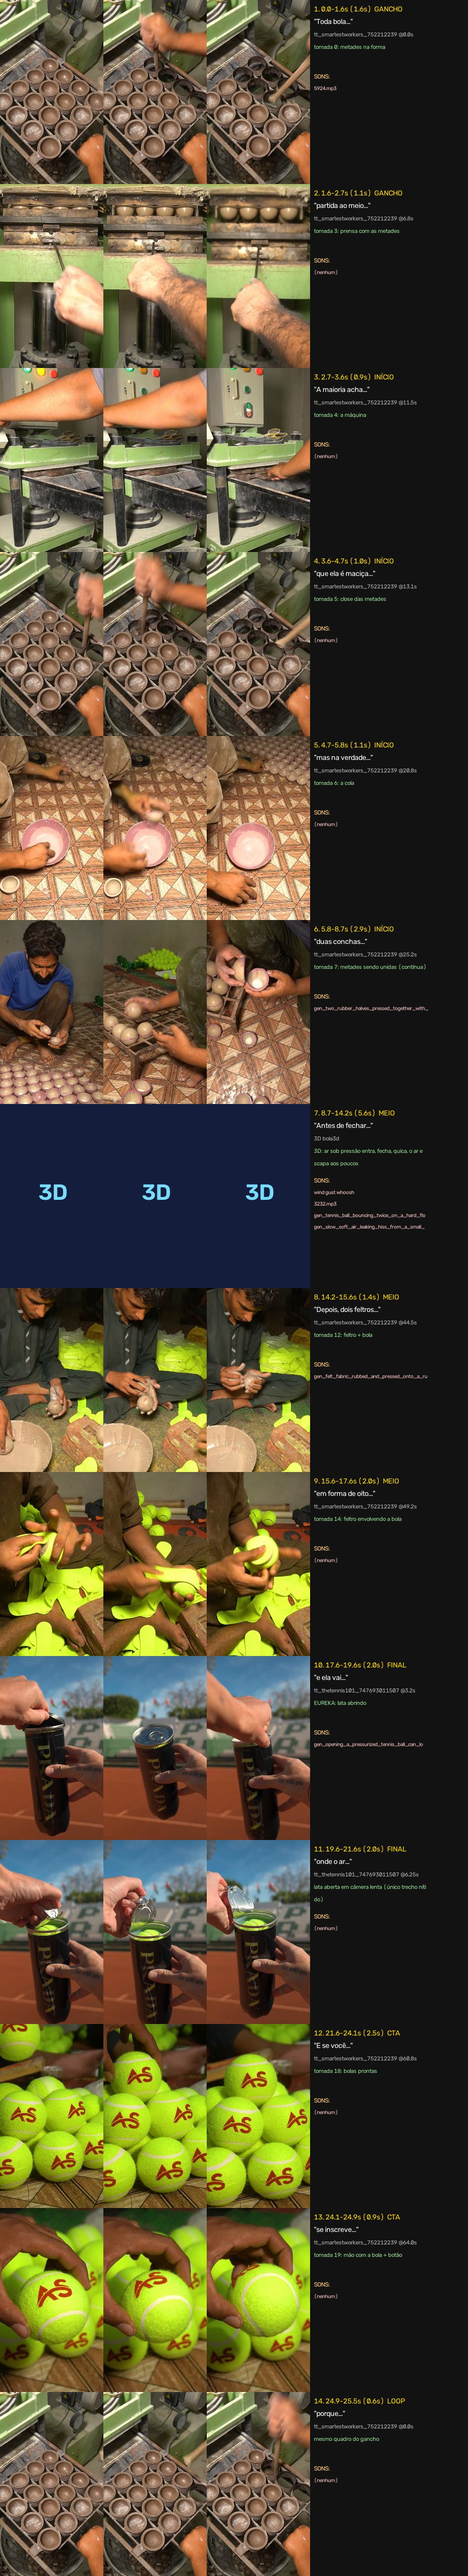
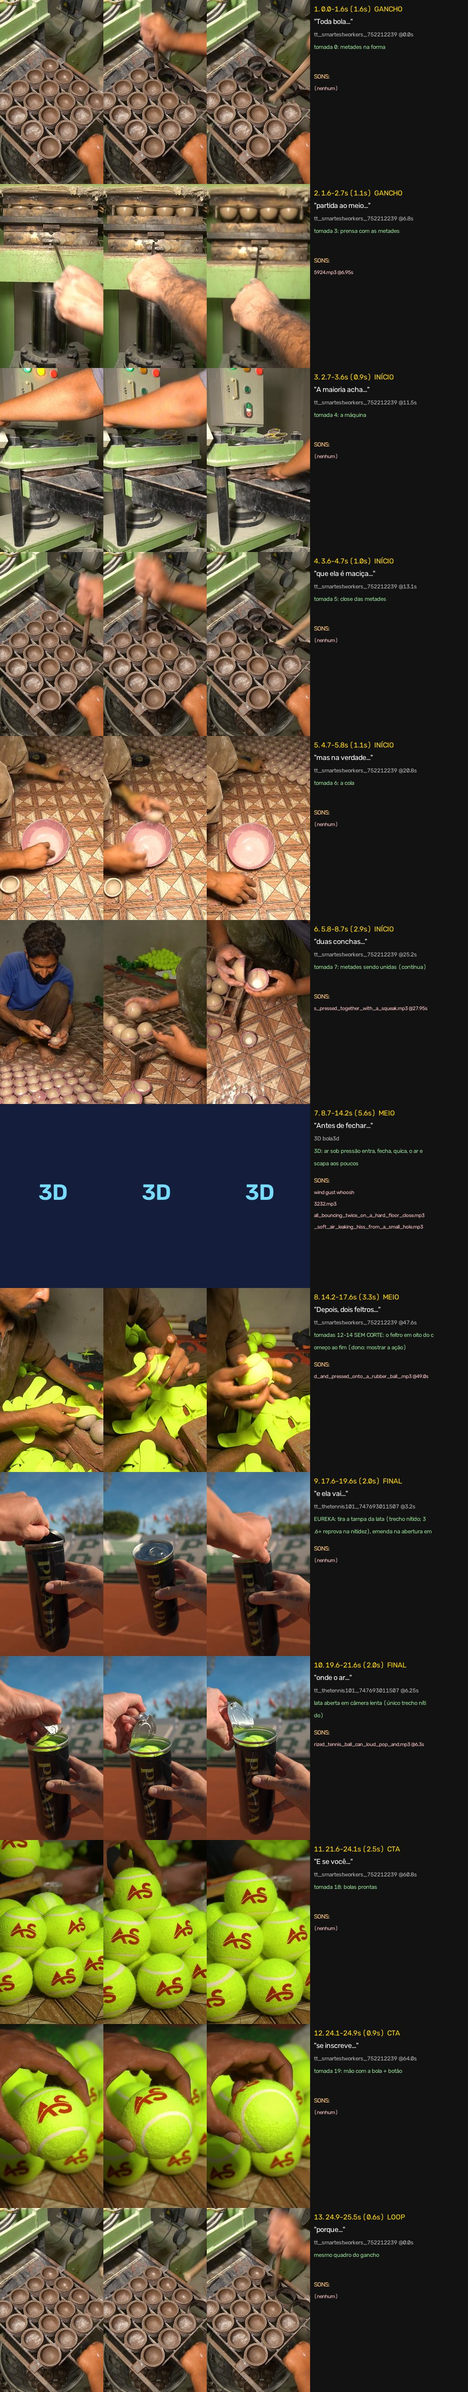
Som no instante da ação da imagem (no_clipe) + ação inteira na cena; vd011 corrigido
Claude-Session: https://claude.ai/code/session_01Pz7vxCjdPfCnR3b978TXUQ

diff --git a/viitu/editar.py b/viitu/editar.py
@@ -707,6 +707,16 @@ def _hits(cfg: dict, palavras: list[dict], impactos: list[int], pub: Path) -> li
             for i in alvos]
 
 
+def _ataque(arq: Path) -> float:
+    """Segundo em que o som "acontece" no arquivo: 1º ponto a 30% do pico (−10 dB), menos 30 ms de respiro."""
+    bruto = subprocess.run(["ffmpeg", "-v", "error", "-i", str(arq), "-t", "3", "-ac", "1", "-ar", "8000", "-f", "s16le", "-"],
+                           capture_output=True, check=True).stdout
+    x = np.abs(np.frombuffer(bruto, np.int16).astype(np.float32))
+    if not len(x) or x.max() == 0:
+        return 0.0
+    return max(int(np.argmax(x >= 0.3 * x.max())) / 8000 - 0.03, 0.0)
+
+
 def _sons_da_cena(segs: list[dict], palavras: list[dict], pub: Path) -> list[dict]:
     """Foley de AÇÃO em cena de clipe real (não é som de função): toca NA palavra, não na pausa.
     "sfx_cena": [{"em": "pegou", "arquivo": "assets/sfx/x.mp3" | "busca": "<som em inglês>", "db": -4, "dur": 2, "desloc": 0}]"""
@@ -727,12 +737,22 @@ def _sons_da_cena(segs: list[dict], palavras: list[dict], pub: Path) -> list[dic
                     print(f"  ⚠ som de cena não achado: {e['busca']}")
                     continue
                 e = {**e, "arquivo": str(Path(arq).relative_to(RAIZ)) if str(arq).startswith(str(RAIZ)) else arq}
-            # a palavra é procurada a partir do começo DESTA cena (vd010: "tripulação" caía na 1ª ocorrência do vídeo)
-            f = round(palavras[achar_palavra(palavras, e["em"], i0)]["inicio"] * FPS) + int(e.get("desloc", 0) * FPS)
+            # SOM NA AÇÃO DA IMAGEM (dono, vd011: "os efeitos não encaixam"): o som caía na PALAVRA, não no instante
+            # em que a coisa acontece no clipe. "no_clipe": segundo do CLIPE onde a ação acontece (visto na prancha).
+            if "no_clipe" in e:
+                t_cena = (float(e["no_clipe"]) - float(s.get("inicio", 0))) / float(s.get("velocidade", 1.0))
+                f = s["f0"] + round(t_cena * FPS)
+                if not s["f0"] <= f < s["f1"]:
+                    sys.exit(f"❌ som '{e['em']}': no_clipe {e['no_clipe']}s cai fora da cena {s.get('em')!r} — conferir a prancha")
+            else:   # palavra procurada a partir do começo DESTA cena (vd010: "tripulação" caía na 1ª ocorrência)
+                f = round(palavras[achar_palavra(palavras, e["em"], i0)]["inicio"] * FPS) + int(e.get("desloc", 0) * FPS)
             nome = f"cena_sfx_{s['f0']}_{k}.mp3"
             dur = e.get("dur", 3)
             corte = pub / f"_tmpc_{k}.mp3"
-            subprocess.run(["ffmpeg", "-v", "error", "-y", "-ss", f"{e.get('ini', 0):.2f}", "-i", str(RAIZ / e["arquivo"]), "-t", f"{dur:.2f}",
+            # o "pico" do arquivo (batida, estalo) cai no quadro da ação, não o começo do arquivo (sons gerados têm
+            # silêncio/ataque antes do golpe — o efeito soava atrasado)
+            ini = e["ini"] if "ini" in e else _ataque(RAIZ / e["arquivo"])
+            subprocess.run(["ffmpeg", "-v", "error", "-y", "-ss", f"{ini:.2f}", "-i", str(RAIZ / e["arquivo"]), "-t", f"{dur:.2f}",
                             "-af", f"afade=t=out:st={max(dur - 0.4, 0):.2f}:d=0.4", str(corte)], check=True)
             normalizar(corte, pub / nome, "pontual")
             corte.unlink(missing_ok=True)

diff --git a/viitu/montagem.py b/viitu/montagem.py
@@ -203,8 +203,15 @@ def checar(projeto: str) -> tuple[list[str], list[str]]:
                          + " (animacao.sfx: entrada + 1 por evento).")
     reais_idx = [k for k in range(len(cenas)) if not eh_3d[k] and not (k == ultima and loop_ok)]
     com_acao = [k for k in reais_idx if cenas[k].get("sfx_cena")]
-    if reais_idx and 0 not in com_acao:
-        erros.append("R8 GANCHO SEM SOM DE AÇÃO: a 1ª cena precisa de sfx_cena (o som do que aparece).")
+    tempos_r8 = _tempos(RAIZ / "projetos" / projeto, cenas)
+    if reais_idx and not any(k in com_acao and tempos_r8[k][0] < 3.0 for k in reais_idx):
+        erros.append("R8 GANCHO SEM SOM DE AÇÃO: alguma cena dos 3 primeiros segundos precisa de sfx_cena (o som do que aparece).")
+    # SOM NA AÇÃO (dono, vd011: "os efeitos não encaixam"): som de clipe real cai no instante da ação NA IMAGEM
+    for k in com_acao:
+        sem = [e.get("em") for e in cenas[k]["sfx_cena"] if "no_clipe" not in e]
+        if sem:
+            erros.append(f"R8 SOM FORA DA AÇÃO: cena {k + 1} tem som sem \"no_clipe\" {sem} — ver na prancha o segundo do clipe "
+                         "em que a ação acontece (encaixe, estalo, golpe) e marcar no_clipe.")
     if reais_idx and len(com_acao) < math.ceil(0.4 * len(reais_idx)):
         avisos.append(f"R8 pouco som de ação: {len(com_acao)}/{len(reais_idx)} cenas reais com sfx_cena (conferir se falta som que EXISTE na cena). "
                      f"Sem som: cenas {[k + 1 for k in reais_idx if k not in com_acao]}.")

diff --git a/viitu/decupagem.py b/viitu/decupagem.py
@@ -60,7 +60,7 @@ def decupar(projeto: str) -> Path:
             z = c.get("zoom", [1.0, 1.0])
             tiles = [_quadro(arq, c.get("inicio", 0) + f * usado, z[0], c.get("alvo", (0.5, 0.5)), c.get("layout") == "inteiro")
                      for f in (0.05, 0.5, 0.95)]
-            sons = [e.get("arquivo") or e.get("busca") for e in c.get("sfx_cena", [])]
+            sons = [f'{Path(str(e.get("arquivo") or e.get("busca"))).name} @{e.get("no_clipe", "SEM INSTANTE")}s' for e in c.get("sfx_cena", [])]
             ident = f"{c['clipe'][:28]} @{c.get('inicio', 0)}s"
         info = np.full((H, 330, 3), 18, np.uint8)
         y = 24
@@ -73,7 +73,7 @@ def decupar(projeto: str) -> Path:
         cv2.putText(info, "SONS:", (8, y + 10), cv2.FONT_HERSHEY_SIMPLEX, 0.45, (120, 200, 255), 1)
         for s in sons[:5] or ["(nenhum)"]:
             y += 24
-            cv2.putText(info, Path(str(s)).name[:44], (8, y + 10), cv2.FONT_HERSHEY_SIMPLEX, 0.38, (200, 200, 255), 1)
+            cv2.putText(info, Path(str(s)).name[-44:], (8, y + 10), cv2.FONT_HERSHEY_SIMPLEX, 0.38, (200, 200, 255), 1)
         linhas.append(np.hstack(tiles + [info]))
         txt.append(f"{k + 1}. {t0:.1f}-{t1:.1f}s [{c.get('_parte', '')}] \"{c['em']}\" — {ident} — {c.get('_funcao', '')} — sons: {sons}")
     folha = np.vstack(linhas)

diff --git a/edicao/reclamacoes.md b/edicao/reclamacoes.md
@@ -22,6 +22,7 @@ conferência no fim.
 | 12 | **"Os sons não encaixam" — a causa** (vd011, 19/11) | dono, várias vezes | o buscador automático escolhia sons ERRADOS: "golfe embaixo d'água" p/ bola quicando, "passos de inseto" p/ ar vazando, "ronco espacial" p/ borracha caindo; 24 de 78 escolhas da biblioteca estavam erradas e entraram em vídeos anteriores. A cota de "60% das cenas com efeito" forçava enfeite | trava de SOM CERTO (`foley.som_combina`: nome do arquivo tem a palavra do pedido e não é de outro contexto), sem candidato certo → GERA na ElevenLabs; 19 escolhas erradas apagadas; efeito só quando o som certo existe (BÍBLIA §4); o Claude confere a lista de sons escolhidos antes do render | foley + R8 |
 | 13 | **Cena trocada em silêncio** (vd011, 19/11) | prancha: gancho virou o operário | quando a cena não cabia num trecho da triagem, o editor a MOVIA sozinho para o trecho mais longo; com bruto já editado (tomadas de ~1–2 s) isso trocou o gancho, o feltro e o CTA | editor para e mostra as opções (nada de mover); bruto cronológico: cada frase casa com UMA tomada real do bruto (prancha de tomadas), pode atravessar só cortes internos curtos | editar.py |
 | 14 | **"Falta um cérebro de editor"** (19/11) | dono: "por isso acontecem esses erros" | decisões automáticas (ambiência adivinhada, som errado, cena movida) que ninguém via antes do render; só a prancha DEPOIS de 30 min mostrava | DECUPAGEM antes do render: folha com cada cena (3 quadros do trecho usado, já no 9:16), frase, parte do roteiro, função e SONS; o Claude confere linha por linha | `viitu.decupagem` + entrega 0b |
+| 15 | **Efeitos "péssimos, não encaixam" + ação cortada** (vd011, 19/11) | "fala que enrola o feltro em 8 e só mostra começando e depois terminando" · "os efeitos não encaixam" | (a) o som era sincronizado com a PALAVRA, não com o instante da ação na imagem; o som da prensa tocava no gancho, onde a imagem é um bastão mexendo; o estouro da lata tocava quando ela só tirava a tampa. (b) a ação satisfatória ficava no buraco entre duas cenas (o feltro em 8, de 46 a 49 s, ficou de fora) | todo som de clipe real tem `"no_clipe"` (segundo do clipe em que a ação acontece, visto na prancha) e o golpe do arquivo cai nesse quadro; ação que a frase descreve aparece INTEIRA numa cena só (começo→fim, acelerar até 1,2× se precisar) | R8 + `editar._ataque` + decupagem mostra "@t" |
 | 9 | **Entregue sem revisar** (3x) | "parece que não foi revisado antes de ser enviado" | revisão sem critério de bloqueio | trava R1–R7 antes do render + revisar + auditoria + prancha OLHADA | montagem + revisar |
 | 10 | **Análises não aplicadas** (2x) | "você não aplicou o que seria válido?" | conhecimento ficava no Hall sem virar regra | toda análise termina com a regra escrita no arquivo do mapa (CLAUDE.md) | /analisar |
 

diff --git a/.claude/skills/editar/SKILL.md b/.claude/skills/editar/SKILL.md
@@ -24,7 +24,9 @@ aval do dono). Não renderizar planta reprovada.
    `"destaques"`; `"creditos_descricao"`; `"permissoes"`.
 4. **DECUPAGEM (cérebro de editor, obrigatória):** `python3 -m viitu.decupagem <p>` → `saida/decupagem.jpg`. O Claude
    ABRE a folha e confere linha por linha ANTES do render: a imagem mostra o que a frase diz? a tomada é a certa? o som
-   listado é do contexto (nada de galo, inseto, golfe)? alguma cena repetida/fraca? Errou → corrige o cenas.json e
+   listado é do contexto (nada de galo, inseto, golfe)? alguma cena repetida/fraca? a AÇÃO que a frase descreve aparece
+   inteira (começo→fim, nada pulado entre duas cenas)? cada som tem `"no_clipe"` = o segundo do clipe em que a ação
+   acontece (prancha fina de 0,1 s), e não a palavra? Errou → corrige o cenas.json e
    gera de novo. A entrega reprova se a decupagem não existir ou for mais velha que o cenas.json.
 5. `python3 -m viitu.editar <p> --remotion` → `cd remotion && npm run render` →
    `cp out/short_remotion.mp4 out/<p>.mp4`. Antes do render completo, confira quadros soltos de animações novas

diff --git a/edicao/fontes_das_regras.md b/edicao/fontes_das_regras.md
@@ -40,6 +40,8 @@ Número novo só entra no projeto com a base escrita aqui.
 | Som de ação (hit) | −6 dB, só quando o som certo existe | M + D | 35 Shorts (foley em 93%); BÍBLIA §4 |
 | Ambiência só escolhida (nunca adivinhada) | — | D | vd011: adivinhação pôs galo numa fábrica |
 | Som certo: nome do arquivo tem a palavra do pedido | — | M | auditoria: 24/78 escolhas automáticas estavam erradas |
+| Som de ação no instante da ação NA IMAGEM (`no_clipe`), não na palavra | — | D | dono 19/11, vd011: "os efeitos não encaixam" |
+| Ação descrita na frase aparece inteira (sem pular o meio) | — | D | dono 19/11, vd011: feltro em 8 |
 | Leito ≥ 10 dB abaixo da voz | 10 dB | M | pesquisa de 43 Shorts: trilha 12–18 dB abaixo da voz |
 | Efeitos curtos até 4 dB da voz | 4 dB | M (derivado) | whoosh medido a −3 dB |
 | Música cresce depois da virada (×2) | ×2 | **H** | M diz que sobe na virada, mas a quantidade não foi medida |
